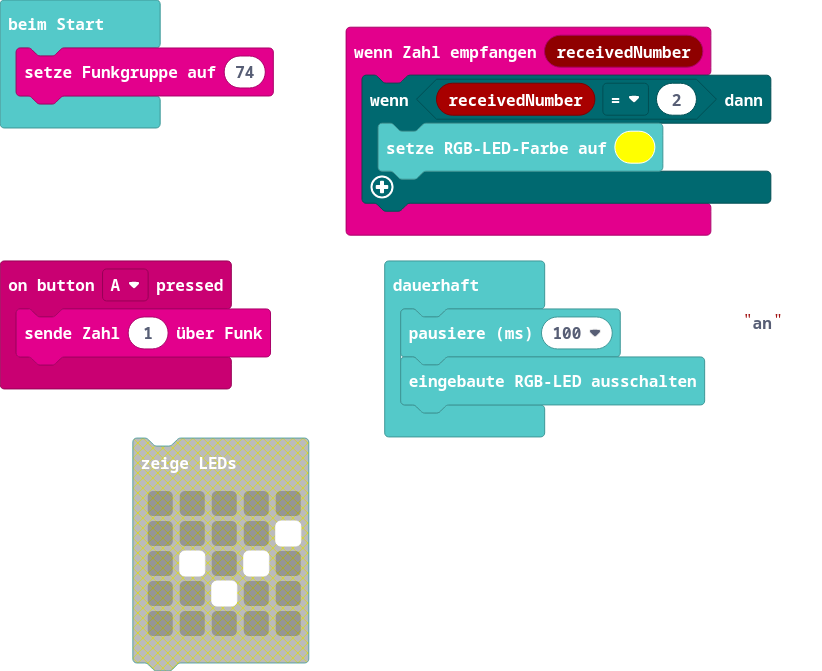
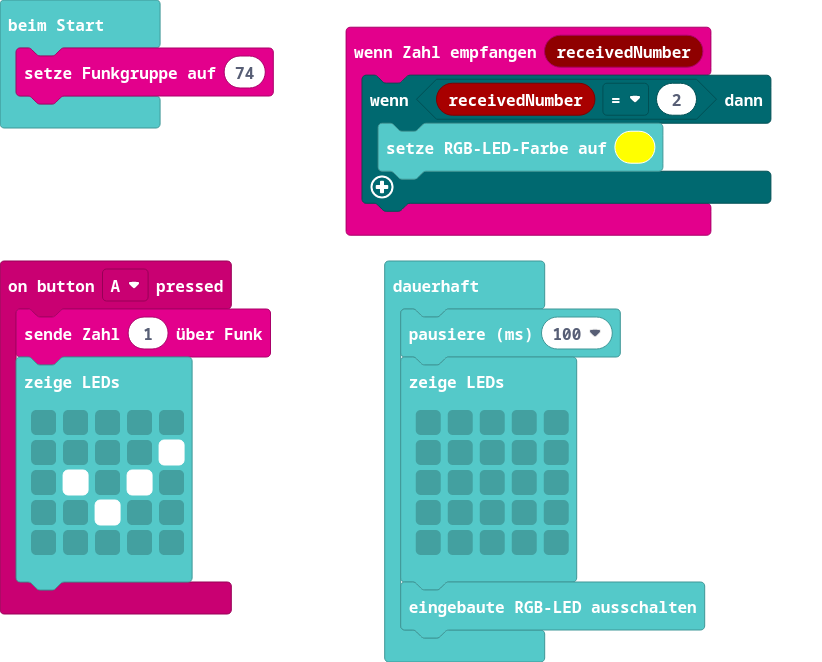
Aktualisiere main.blocks, main.ts

diff --git a/main.ts b/main.ts
@@ -5,9 +5,23 @@ radio.onReceivedNumber(function (receivedNumber) {
 })
 input.onButtonPressed(Button.A, function () {
     radio.sendNumber(1)
+    basic.showLeds(`
+        . . . . .
+        . . . . #
+        . # . # .
+        . . # . .
+        . . . . .
+        `)
 })
 radio.setGroup(74)
 basic.forever(function () {
     basic.pause(100)
+    basic.showLeds(`
+        . . . . .
+        . . . . .
+        . . . . .
+        . . . . .
+        . . . . .
+        `)
     basic.turnRgbLedOff()
 })
